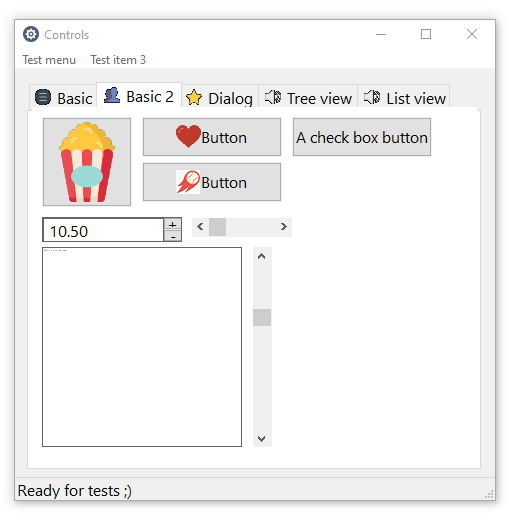
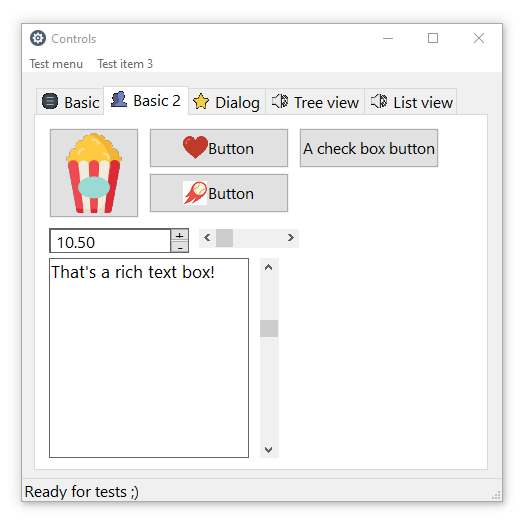
fix tab header height

Changed region(s): [[0.0311, 0.031, 0.9961, 0.9922], [0.5292, 0.4341, 0.5603, 0.4651]]

diff --git a/native-windows-gui/src/controls/tabs.rs b/native-windows-gui/src/controls/tabs.rs
@@ -285,17 +285,40 @@ impl TabsContainer {
                     *size_check2.borrow_mut() = ManualPaint { old_size: size, force_redraw: false };
                 },
                 WM_SIZE => {
+                    use winapi::shared::windef::{RECT, HGDIOBJ};
+                    use winapi::um::winuser::{GetDC, DrawTextW, ReleaseDC, DT_CALCRECT, DT_LEFT};
+                    use winapi::um::wingdi::SelectObject;
+
                     let size = l as u32;
                     let width = LOWORD(size) as i32;
                     let height = HIWORD(size) as i32;
                     let (w, h) = crate::win32::high_dpi::physical_to_logical(width, height);
 
-                    let mut data = (hwnd, w as u32, h as u32);
+                    let mut data = ResizeDirectChildrenParams {
+                        parent: hwnd,
+                        width: w as u32,
+                        height: h as u32,
+                        tab_offset_y: 0
+                    };
+
+                    // Get the height of the tabs
+                    let font_handle = wh::get_window_font(hwnd);
+                    let mut r: RECT = mem::zeroed();
+                    let dc = GetDC(hwnd);
+                    let old = SelectObject(dc, font_handle as HGDIOBJ);
+                    let calc: [u16;2] = [75, 121];
+                    DrawTextW(dc, calc.as_ptr(), 2, &mut r, DT_CALCRECT | DT_LEFT);
+                    SelectObject(dc, old);
+                    ReleaseDC(hwnd, dc);
+
+                    // Fix the width/height of the tabs
+                    const BORDER_SIZE: u32 = 11;
+                    let tab_height = r.bottom as u32 + BORDER_SIZE;
+                    if data.width > BORDER_SIZE { data.width -= BORDER_SIZE; }
+                    if data.height > tab_height { data.height -= tab_height + BORDER_SIZE; }
+                    data.tab_offset_y = tab_height;
                     
-                    if data.1 > 11 { data.1 -= 11; }
-                    if data.2 > 30 { data.2 -= 30; }
-                    
-                    let data_ptr = &data as *const (HWND, u32, u32);
+                    let data_ptr = &data as *const ResizeDirectChildrenParams;
                     EnumChildWindows(hwnd, Some(resize_direct_children), mem::transmute(data_ptr));
                 },
                 _ => {}
@@ -357,6 +380,11 @@ impl<'a> TabsContainerBuilder<'a> {
 
     pub fn parent<C: Into<ControlHandle>>(mut self, p: C) -> TabsContainerBuilder<'a> {
         self.parent = Some(p.into());
+        self
+    }
+
+    pub fn font(mut self, font: Option<&'a Font>) -> TabsContainerBuilder<'a> {
+        self.font = font;
         self
     }
 
@@ -684,10 +712,20 @@ impl<'a> TabBuilder<'a> {
 }
 
 
+struct ResizeDirectChildrenParams {
+    parent: HWND,
+    width: u32,
+    height: u32,
+    tab_offset_y: u32
+}
+
 unsafe extern "system" fn resize_direct_children(handle: HWND, params: LPARAM) -> BOOL {
-    let &(parent, w, h): &(HWND, u32, u32) = mem::transmute(params);
-    if wh::get_window_parent(handle) == parent {
-        wh::set_window_size(handle, w, h, false);
+    let params: &ResizeDirectChildrenParams = &*(params as *const ResizeDirectChildrenParams);
+    if wh::get_window_parent(handle) == params.parent {
+        wh::set_window_size(handle, params.width, params.height, false);
+
+        let (x, _y) = wh::get_window_position(handle);
+        wh::set_window_position(handle, x, params.tab_offset_y as i32);
     }
 
     1

diff --git a/native-windows-gui/src/tests/control_test.rs b/native-windows-gui/src/tests/control_test.rs
@@ -241,7 +241,7 @@ mod partial_controls_test_ui {
                 .build(&mut data.arial_font)?;
 
             Font::builder()
-                .size(16)
+                .size(23)
                 .family("Segoe UI")
                 .build(&mut data.segoe_font)?;
 
